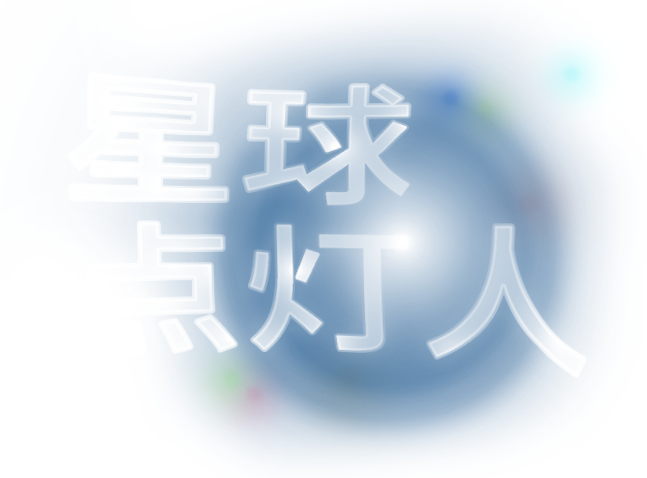
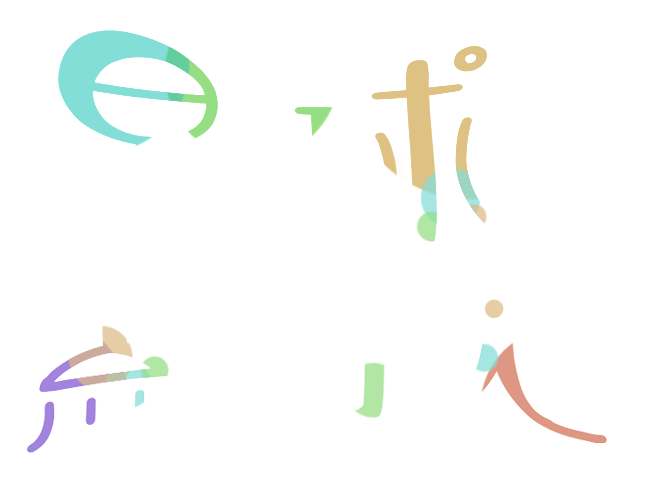
updated music audio

diff --git a/src/pages/index/components/homeButtons.vue b/src/pages/index/components/homeButtons.vue
@@ -4,13 +4,12 @@
       <view class="info_img">
         <image class="info_img_content" src="@/static/title-miniprogram-s.png" />
       </view>
-      <!-- <view class="info_border"></view>
+      <!-- <view class="info_border"></view> -->
       <view class="info_content">
-        <view class="top_line top_line_1">星球</view>
-        <view class="top_line top_line_2">点灯人</view>
         <view class="top_line_notes top_line_notes_line1">{{ note1 }}</view>
         <view class="top_line_notes">{{ note2 }}</view>
-      </view> -->
+        <view class="top_line_notes">{{ note3 }}</view>
+      </view>
     </view>
     <view class="bottom_info">
       <view class="mid_buttons">
@@ -21,7 +20,7 @@
         />
         <level-select />
         <view class="buttons_line_2 buttons_line">
-          <view class="button_start button_general" @click="startGeneral">开始学习</view>
+          <view class="button_start button_general" @click="startGeneral">开始点灯</view>
         </view>
         <view class="buttons_line_3 buttons_line">
           <view class="button_train button_general" @click="goToCollection">我的足迹</view>
@@ -72,6 +71,7 @@
         isGettingUserProfile: false,
         note1: '',
         note2: '',
+        note3: '',
       }
     },
     computed: {
@@ -93,6 +93,7 @@
         const { data: [ settings ] } = await SettingsModal.getAllSettings();
         this.note1 = settings.indexText.note1;
         this.note2 = settings.indexText.note2;
+        this.note3 = settings.indexText.note3;
       },
       getSystemInfo() {
         const res = wx.getSystemInfoSync();
@@ -241,9 +242,9 @@ $globe-radius: 11rem;
     left: 50%;
     transform: translateX(-50%);
     .info_img_content {
-      width: 90vw;
+      width: 80vw;
       // width * 0.74
-      height: 69vw;
+      height: 59vw;
     }
 
   }
@@ -261,18 +262,23 @@ $globe-radius: 11rem;
   }
   .info_content {
     position: absolute;
-    top: 0;
-    left: 1rem;
+    top: 65vw;
+    width: 70vw;
+    left: 50%;
+    transform: translateX(-50%);
     .top_line {
-      padding-left: 0.8rem;
+      margin-top: 0.8rem;
+
     }
     .top_line_notes_line1 {
       margin-top: 0.5rem;
     }
     .top_line_notes {
-      padding-left: 0.8rem;
-      font-size: 1rem;
-      line-height: 1.5rem;
+      margin-top: 0.3rem;
+      font-size: 0.5rem;
+      letter-spacing: 0.1rem;
+      // padding: 0 0.8rem;
+      line-height: 0.7rem;
       color: #ffffff99;
     }
   }

diff --git a/src/components/global-audio.vue b/src/components/global-audio.vue
@@ -1,0 +1,81 @@
+<template>
+  <view></view>
+</template>
+
+<script>
+/**
+ * @description 
+ * @event {Function} click 
+ */
+import Vue from 'vue';
+import { EventBus } from '@/utils/eventBus';
+export default Vue.extend({
+  name: 'GlobalAudio',
+  props: {
+  },
+  data() {
+    return {
+      audios: {
+        audioJumpSuccess: {
+          created: false,
+          url: 'cloud://northenv-4gh0748xf50343cf.6e6f-northenv-4gh0748xf50343cf-1304769767/audios/jump-success.mp3',
+          instance: null,
+        },
+        audioJumpFail: {
+          created: false,
+          url: 'cloud://northenv-4gh0748xf50343cf.6e6f-northenv-4gh0748xf50343cf-1304769767/audios/jump-fail.mp3',
+          instance: null,
+        },
+        buttonPress: {
+          created: false,
+          url: 'cloud://northenv-4gh0748xf50343cf.6e6f-northenv-4gh0748xf50343cf-1304769767/audios/buttonpress.mp3',
+          instance: null,
+        },
+        atmosphere: {
+          created: false,
+          url: 'cloud://northenv-4gh0748xf50343cf.6e6f-northenv-4gh0748xf50343cf-1304769767/audios/superspacy-atmosphere .mp3',
+          instance: null,
+        },
+      },
+
+    }
+  },
+  created() {
+    this.init();
+    this.watchAudioPlayEvent();
+  },
+  methods: {
+    init() {
+      this.createAudioInstances('audioJumpSuccess');
+      this.createAudioInstances('audioJumpFail');
+      this.createAudioInstances('buttonPress');
+      this.createAudioInstances('atmosphere');
+    },
+    createAudioInstances(name) {
+      if (name in this.audios) {
+        this.audios[name].instance = wx.createInnerAudioContext({
+          useWebAudioImplement: true,
+        });
+        this.audios[name].instance.src = this.audios[name].url;
+        this.audios[name].created = true;
+      }
+    },
+    playAudio(name) {
+      if (name in this.audios) {
+        this.audios[name].instance.play();
+      }
+    },
+    watchAudioPlayEvent() {
+        EventBus.$on('playAudio', (name) => {
+          this.playAudio(name);
+        });
+
+    }
+  }
+})
+</script>
+
+<style scoped lang="scss">
+
+
+</style>

diff --git a/src/components/earth-globe.vue b/src/components/earth-globe.vue
@@ -216,6 +216,7 @@ export default Vue.extend({
       await this.drawEarthSurface(THREE, scene);
 
       //Render the image
+      renderer.setPixelRatio(2)
       const render = () => {
         canvas.requestAnimationFrame(render);
         renderer.setClearColor(this.earthColorBackground, 1);
@@ -230,14 +231,16 @@ export default Vue.extend({
         );
         setTimeout(() => {
           EventBus.$emit('enableEarthRotation');
-          wx.hideLoading();
         }, this.flyTimeSpan + 10);
       }
     },
     async drawEarthSurface(THREE, scene ) {
       const geometry = new THREE.SphereGeometry(this.earthRadius + this.earthSurfaceOffset, 32, 32 );
-      let texture = new THREE.TextureLoader().load(PICTURES_URL.EARTH);
+      let texture = new THREE.TextureLoader().load(
+        PICTURES_URL.EARTH, () => wx.hideLoading(),
+      );
       let bumpTexture = new THREE.TextureLoader().load(PICTURES_URL.EARTH_TOPOLOGY);
+
 
       texture.minFilter = THREE.LinearFilter;
       bumpTexture.minFilter = THREE.LinearFilter;

diff --git a/src/pages/play-minute/play-minute.vue b/src/pages/play-minute/play-minute.vue
@@ -109,6 +109,7 @@ import { EventBus } from '@/utils/eventBus';
         if (!this.anmtCtrl.gameGuidePageVisible && this.currentRoute === 'play-minute') {
           EventBus.$emit('startGameCountDown');
         }
+        EventBus.$emit('playAudio', 'atmosphere');
       },
       async getCityData() {
         try {
@@ -347,6 +348,8 @@ import { EventBus } from '@/utils/eventBus';
           store.commit('setJudgeCtrl', {
             restTime: this.judgeCtrl.countdownStartTime,
           });
+          // 7.播放音效
+          EventBus.$emit('playAudio', 'audioJumpSuccess');
         } else {
           // 1.两秒防抖
           setTimeout(() => {
@@ -369,6 +372,8 @@ import { EventBus } from '@/utils/eventBus';
               selected: calc_next_direction_chn(selectedDegree),
             },
           });
+          // 4.播放音效
+          EventBus.$emit('playAudio', 'audioJumpFail');
           // this.cityQueueBrokeOne();
           this.gameEnd();
         }

diff --git a/src/pages/collections/components/city-detail.vue b/src/pages/collections/components/city-detail.vue
@@ -18,6 +18,9 @@
           />
           <view class="detail_image_cover"></view>
           <view class="detail_image_nothing"></view>
+          <view class="detail_unlock_number">
+            No.{{ city.id }}
+          </view>
           <view class="detail_unlock_stamp">
             <view class="detail_unlock_stamp_inner">
               <view class="detail_unlock_stamp_inner_item detail_unlock_stamp_circle_1"></view>
@@ -182,6 +185,14 @@ $golden-unlock-stamp: #fffb00;
         width: 100%;
         height: 60vh;
         background: #041536;
+      }
+      .detail_unlock_number {
+        position: absolute;
+        top: 1rem;
+        left: 1rem;
+        font-size: 1.2rem;
+        font-weight: bold;
+        opacity: .6;
       }
       .detail_unlock_stamp {
         position: absolute;

diff --git a/src/pages/index/index.vue b/src/pages/index/index.vue
@@ -11,6 +11,7 @@
       :currentRoute="currentRoute"
       @handleRouteChange="handleRouteChange"
     />
+    <global-audio />
   </view>
 </template>
 
@@ -18,6 +19,7 @@
 import Vue from 'vue';
 import store from '@/store/index.js';
 import EarthGlobe from '@/components/earth-globe.vue';
+import GlobalAudio from '@/components/global-audio.vue';
 import GlobalRouter from '@/pages/index/components/globalRouter.vue';
 import { EventBus } from '@/utils/eventBus';
 
@@ -25,6 +27,7 @@ export default Vue.extend({
   components: {
     EarthGlobe,
     GlobalRouter,
+    GlobalAudio,
   },
   data() {
     return {

diff --git a/src/pages/index/components/globalRouter.vue b/src/pages/index/components/globalRouter.vue
@@ -29,6 +29,7 @@ import PlayMinute from '@/pages/play-minute/play-minute.vue';
 import HomeButtons from './homeButtons.vue';
 import Ranking from '@/pages/ranking/index.vue';
 import Collections from '@/pages/collections/index.vue';
+import { EventBus } from '@/utils/eventBus';
 
 export default {
   name: 'globalRouter',
@@ -55,6 +56,7 @@ export default {
     },
     handleRouteChange(route) {
       this.$emit('handleRouteChange', route);
+      EventBus.$emit('playAudio', 'buttonPress');
     },
   }
 }

diff --git a/src/pages/collections/index.vue b/src/pages/collections/index.vue
@@ -78,17 +78,18 @@
       </view> -->
     </view>
     <view class="collection_bottom_buttons">
-      <view 
+      <button 
         class="collection_bottom_button_item"
         @click="emitRouteChange('home')"
       >
         返回
-      </view>
-      <view 
+      </button>
+      <button 
         class="collection_bottom_button_item"
+        open-type="share" 
       >
         分享
-      </view>
+      </button>
     </view>
   </view>
 </template>

diff --git a/src/api/game.js b/src/api/game.js
@@ -33,7 +33,7 @@ class GameModal {
       data.forEach((i) => {
         i.separated_abs_chn = i.abs_chn.split('。')
       })
-      console.log('getGameQuestions getGameQuestions', data)
+      // console.log('getGameQuestions getGameQuestions', data)
       return data
     } catch (error) {
       console.log('error!!!', error)

diff --git a/src/pages/index/components/level-select.vue b/src/pages/index/components/level-select.vue
@@ -1,6 +1,6 @@
 <template>
   <view class="select_wrap" @click="gotoNextLevel">
-    <view class="select_item">学习难度：</view>
+    <view class="select_item">城市难度：</view>
     <view class="select_item select_item_button">{{gameCurrentSettings.name}}</view>
   </view>
 </template>
